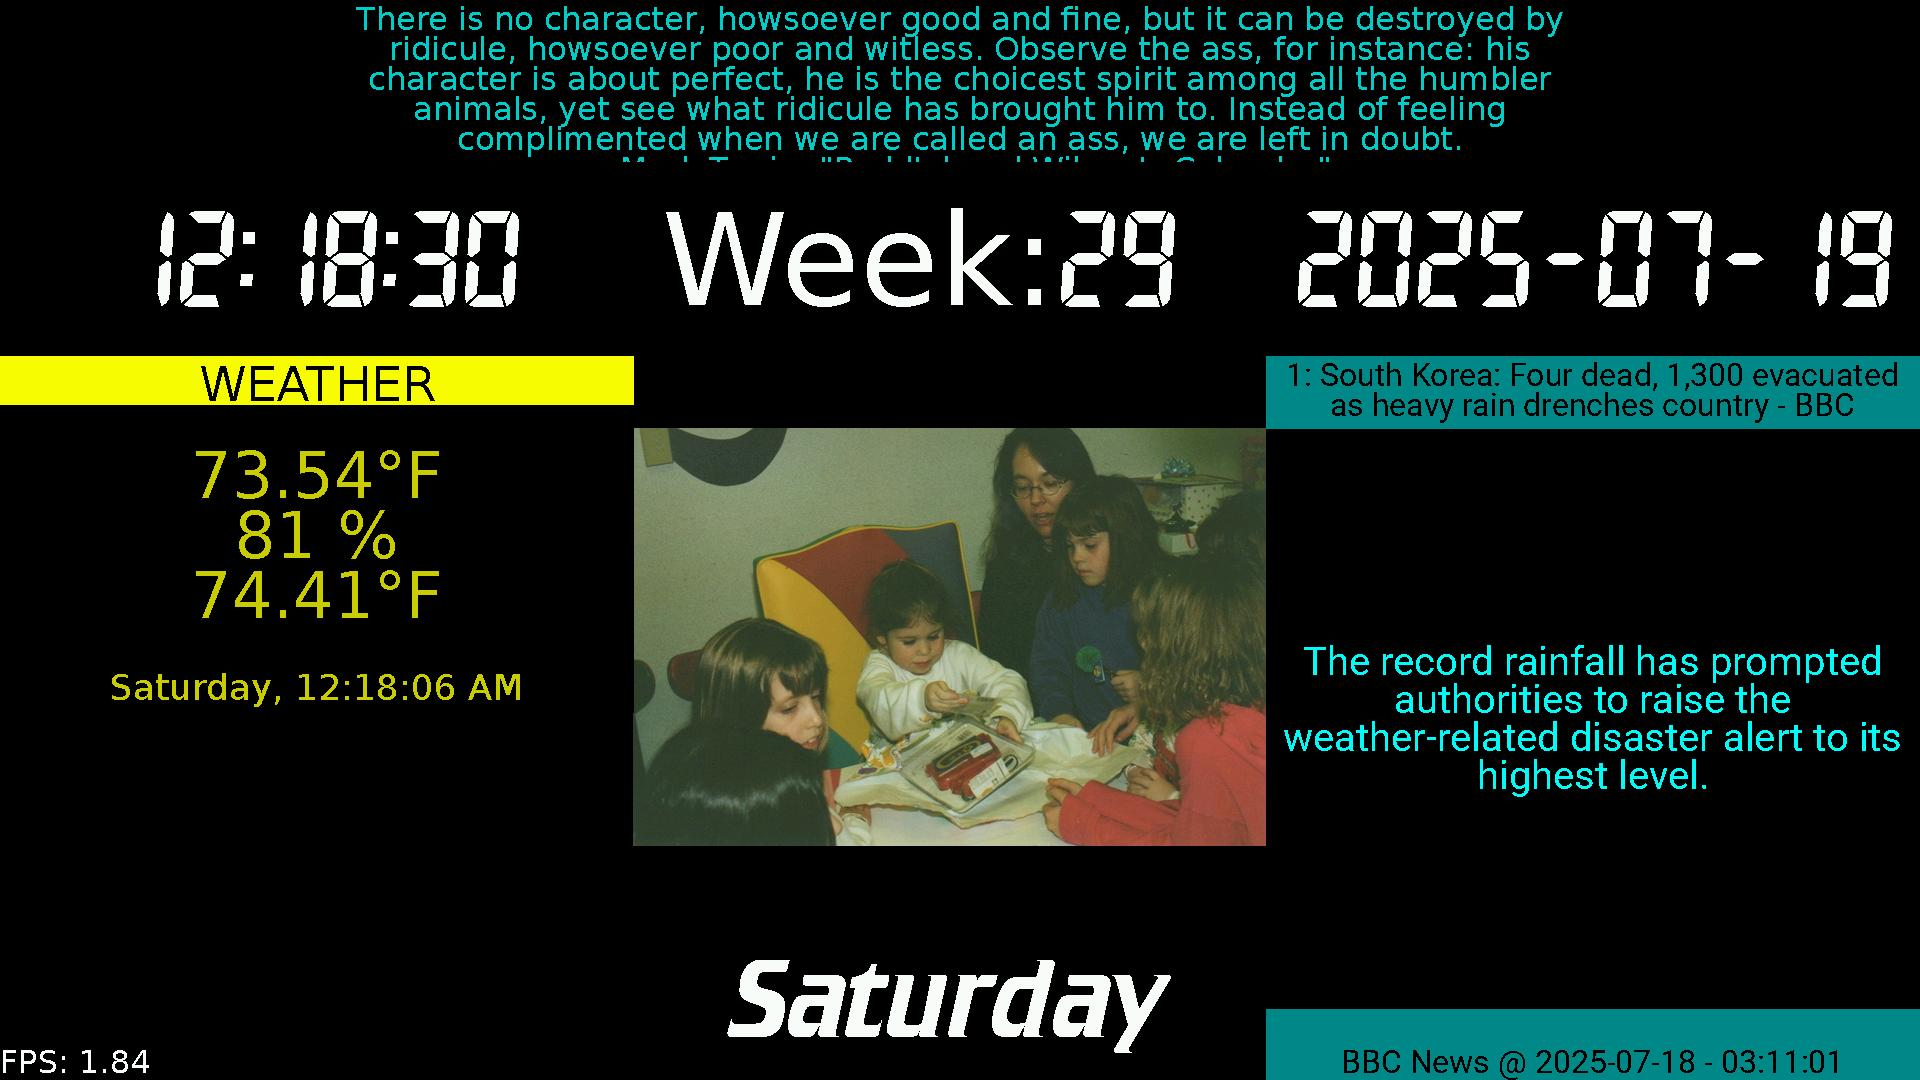
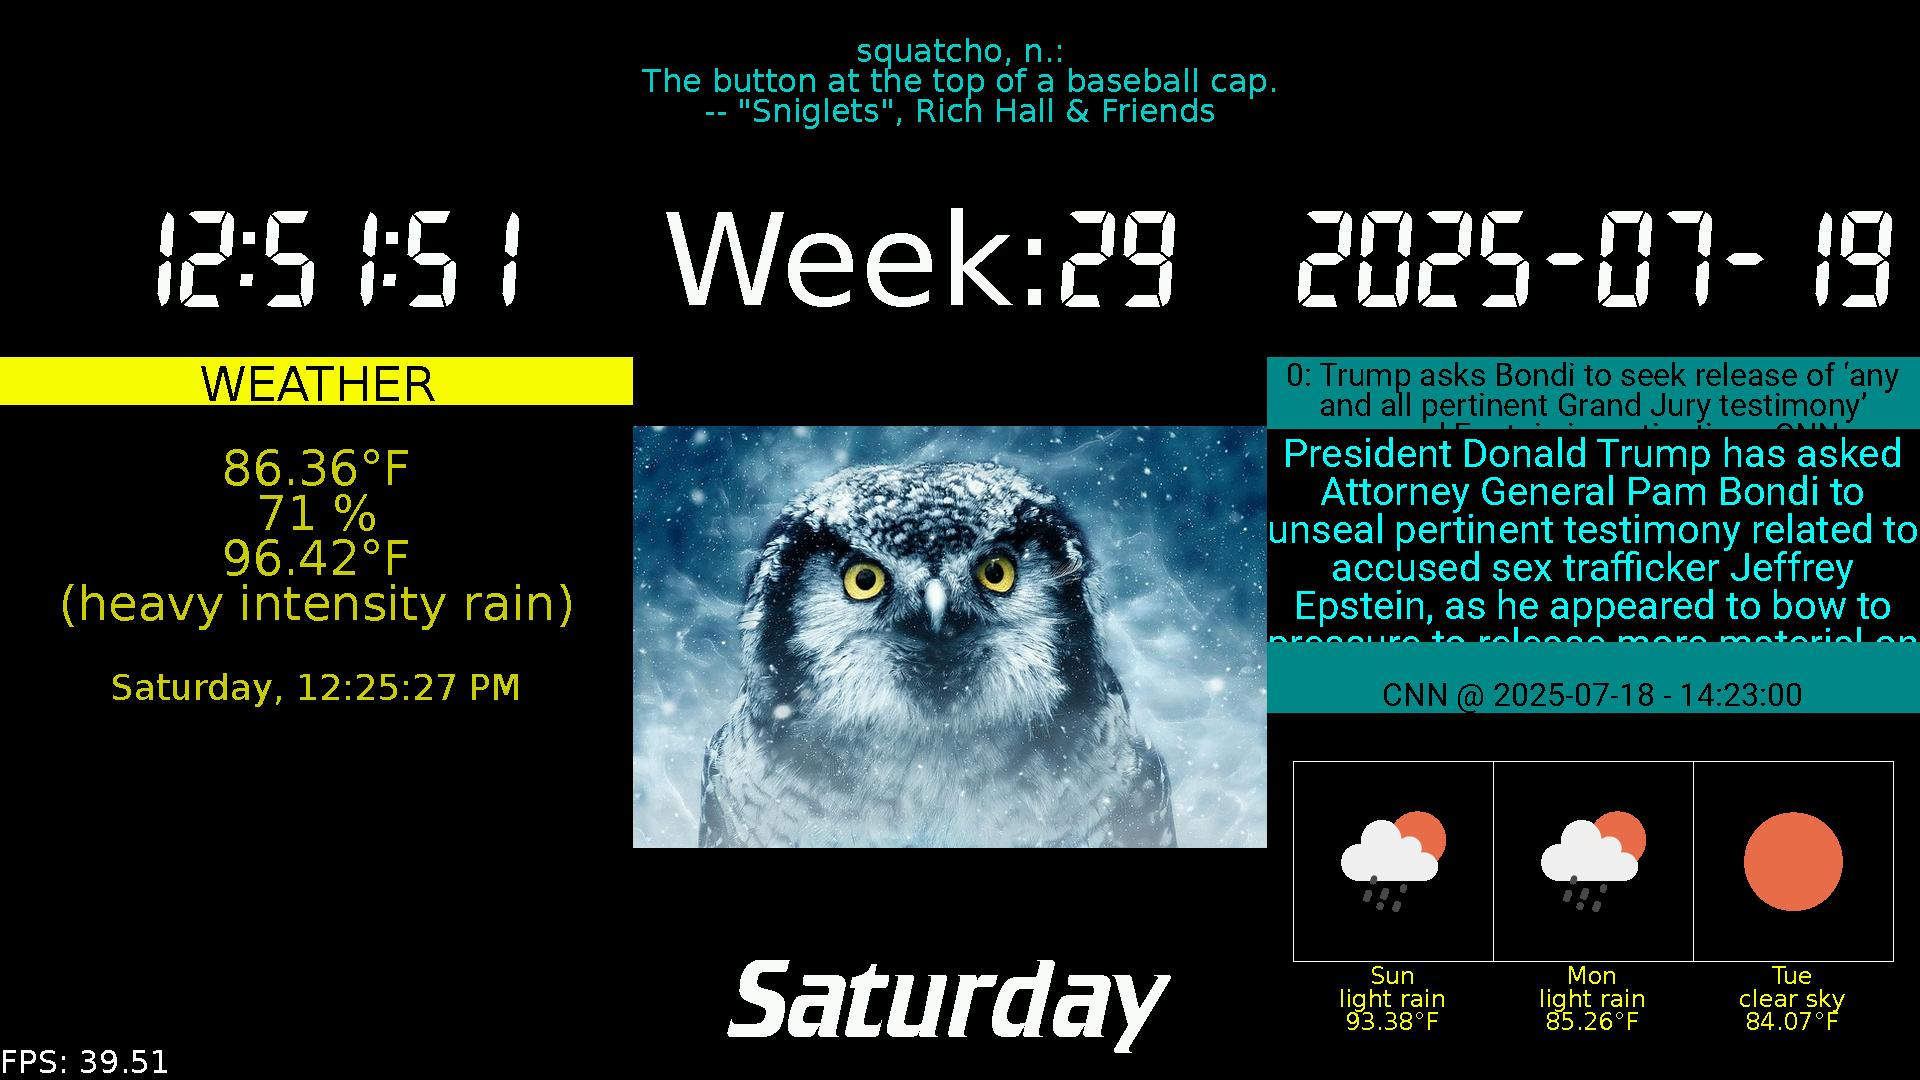
adding forecast

diff --git a/src/pmserver/templates/display.html b/src/pmserver/templates/display.html
@@ -27,7 +27,9 @@
                     <img src="/static/output.jpg" alt="Mirror Display" class="mirror-display" id="displayImage">
                     <div class="mt-3">
                         <button class="btn btn-secondary" onclick="refreshDisplay()">Refresh Display</button>
-                        <a href="/" class="btn btn-outline-primary">Back to Home</a>
+                        <a href="/control" class="btn btn-success ms-2">Control Panel</a>
+                        <a href="/alert" class="btn btn-warning ms-2">Send Alert</a>
+                        <a href="/" class="btn btn-outline-primary ms-2">Back to Home</a>
                     </div>
                 </div>
             </div>

diff --git a/src/pmserver/templates/alert.html b/src/pmserver/templates/alert.html
@@ -52,8 +52,14 @@ document.getElementById('commandForm').onsubmit = function(e) {
     })
     .then(response => response.json())
     .then(data => {
+        // Show success message briefly, then redirect
         document.getElementById('result').innerHTML =
-            '<pre>' + JSON.stringify(data, null, 2) + '</pre>';
+            '<div class="alert alert-success">Alert sent successfully! Redirecting to display...</div>';
+        
+        // Redirect to display page after 1 second
+        setTimeout(() => {
+            window.location.href = '/display';
+        }, 1000);
     })
     .catch(error => {
         document.getElementById('result').innerHTML =

diff --git a/src/pmserver/templates/control.html b/src/pmserver/templates/control.html
@@ -43,8 +43,8 @@ document.getElementById('controlForm').onsubmit = function(e) {
     })
     .then(response => response.json())
     .then(data => {
-        document.getElementById('result').innerHTML =
-            '<pre>' + JSON.stringify(data, null, 2) + '</pre>';
+        // Redirect immediately after success
+        window.location.href = '/display';
     })
     .catch(error => {
         document.getElementById('result').innerHTML =

diff --git a/src/modules/forecast.py b/src/modules/forecast.py
@@ -1,0 +1,88 @@
+# weather.py
+# https://openweathermap.org/api/one-call-3#current
+
+import requests
+import json
+from datetime import datetime
+from dataclasses import dataclass
+from pymirror.pmbitmap import PMBitmap
+from pymirror.pmcard import PMCard
+from pymirror.pmimage import PMImage
+
+@dataclass
+class ForecastConfig:
+    days: int = 3  # Number of days to forecast
+    days_offset: int = 0  # Offset for the forecast days
+    icon_size: str = "small"  # Size of the forecast icons (None, small, medium, large)
+
+class Forecast(PMCard):
+    def __init__(self, pm, config):
+        super().__init__(pm, config)
+        self._forecast = ForecastConfig(**config.forecast.__dict__)
+        self.subscribe("WeatherForecastEvent")
+        self.dirty = False
+
+    def _load_icon(self, icon_code: str, size: str) -> PMBitmap:
+        # Load the weather icon bitmap based on the icon code and size
+        scale = {"small": "", "medium": "@2x", "large": "@4x"}.get(size, "")
+        icon_path = f"./weather_icons/{icon_code}{scale}.png"
+        print(f"Loading weather icon from {icon_path}")
+        return PMImage().load(icon_path)
+
+    def _render(self, rect: tuple = None) -> tuple:
+        ## if rect is None, don't render anything
+        ## just try to render and return the bounding box
+        if rect:
+            dx, dy = rect
+        else:
+            dx, dy = 0, 0
+        x0, y0, x1, y1 = 0, 0, 0, 0
+        lines = 3
+        cfg = self._forecast
+        for i in range(cfg.days_offset, cfg.days_offset + cfg.days):
+            icon_code = self.weather_response["daily"][i]["weather"][0]["icon"]
+            icon = self._load_icon(icon_code, cfg.icon_size)
+            date = datetime.fromtimestamp(self.weather_response["daily"][i]["dt"])
+            if rect: self.bitmap.img.paste(icon, (x0 + dx, y0 + dy))
+            self.gfx.color = "#fff"
+            if rect: self.bitmap.rect(self.gfx, (x0 + dx, y0 + dy, x0 + icon.width + dx, y0 + icon.height + dy), fill=None)
+            day = date.strftime("%a")
+            desc =  self.weather_response.daily[i].weather[0].description
+            temp = self.weather_response["daily"][i]["temp"]["day"]
+            msg = f"{day}\n{desc}\n{temp}°F"
+            if rect: self.bitmap.text_box(
+                self.gfx,
+                msg,
+                (x0 + dx, y0 + icon.height + dy, x0 + icon.width + dx, y0 + icon.height + self.gfx.font_height * lines + dy),
+                valign="center",
+                halign="center",
+                wrap="words",
+            )
+            x0 += icon.width
+            x1 = max(x1, x0)
+            y1 = max(y1, y0 + icon.height + self.gfx.font_height * lines)
+            if x0 + icon.width >= self.gfx.width:
+                x0 = 0
+                y0 += icon.height + self.gfx.font_height * lines
+        return (0, 0, x1, y1)
+
+    def render(self, force: bool = False) -> bool:
+        if not (self.dirty or force):
+            return False
+        self.bitmap.clear()
+        bbox = self._render(None) ## render and return the bounding box
+        w = bbox[2] - bbox[0]
+        h = bbox[3] - bbox[1]
+        dx = (self.gfx.width - w) // 2
+        dy = (self.gfx.height - h) // 2
+        print(f"Forecast bounding box: {bbox}, x0,y0={dx},{dy}, size: {w}x{h}")
+        self._render((dx, dy))
+        self.dirty = False
+        return True
+
+    def onWeatherForecastEvent(self, event):
+        self.dirty = True
+        self.weather_response = event.data
+
+    def exec(self) -> bool:
+        return self.dirty # state changed

diff --git a/src/modules/weather.py b/src/modules/weather.py
@@ -6,9 +6,11 @@ import json
 from datetime import datetime
 from types import SimpleNamespace
 from dataclasses import dataclass
+from pymirror.pmbitmap import PMBitmap
 from pymirror.pmcard import PMCard
 from events import AlertEvent
 from pymirror.pmwebapi import PMWebApi
+from pymirror.utils import SafeNamespace
 
 @dataclass
 class OpenWeatherMapConfig:
@@ -58,24 +60,36 @@ class Weather(PMCard):
             units=self._weather.units,
             lang=self._weather.lang
         )
+
     def exec(self) -> bool:
         is_dirty = super().exec()
         if not self.timer.is_timedout():
             return is_dirty # early exit if not timed out
         self.timer.set_timeout(self._weather.refresh_minutes * 60 * 1000)
-        self.weather_response = self.api.get_json(self.owm_config.__dict__)
+        self.weather_response = SafeNamespace(**self.api.get_json(self.owm_config.__dict__))
         # print(f"Weather response: {self.weather_response}")  # Debugging line
-        w = SimpleNamespace(**self.weather_response.get("current"))
+        w = self.weather_response.current
+        d = self.weather_response.daily
+        cfg = self._weather
         # convert w.current.dt to a datetime object
-        dt_str = datetime.fromtimestamp(w.dt).strftime(self._weather.datetime_format)
+        dt_str = datetime.fromtimestamp(w.dt).strftime(cfg.datetime_format)
         self.update(
             "WEATHER",
-            f"{w.temp}{self._weather.degrees}\n{w.humidity} %\n{w.feels_like}{self._weather.degrees}",
+            f"{w.temp}{cfg.degrees}\n{w.humidity} %\n{w.feels_like}{cfg.degrees}\n({d[0].weather[0].description})",
             dt_str,
         )
 
-        if self.weather_response.get("alerts"):
-            alerts = self.weather_response["alerts"]
+        if d:
+            # Publish the weather data as an event
+            event = {
+                "event": "WeatherForecastEvent",
+                "data": self.weather_response,
+            }
+            print(f"Publishing weather forecast event: {event['event']}")
+            self.publish_event(event)
+
+        if w.alerts:
+            alerts = w.alerts
             if alerts:
                 alert = alerts[0]
                 event = {

diff --git a/src/pymirror/pmmodule.py b/src/pymirror/pmmodule.py
@@ -35,7 +35,7 @@ class PMModule(ABC):
 		self.timer = PMTimer(0)
 		self.subscriptions = []
 		self.gfx = PMGfx() ## default graphics context
-		self.gfx.rect = self._compute_rect()
+		self.gfx.rect = self._compute_rect(self.position)
 		self.gfx.color = _moddef.color or self.screen.gfx.color or self.gfx.color
 		self.gfx.bg_color = _moddef.bg_color or self.screen.gfx.bg_color or self.gfx.bg_color
 		self.gfx.text_color = _moddef.text_color or self.screen.gfx.text_color or self.gfx.text_color
@@ -46,14 +46,13 @@ class PMModule(ABC):
 		self.bitmap = self._allocate_bitmap()
 		self.subscribe(_moddef.subscriptions or [])
 
-	def _compute_rect(self) -> tuple:
+	def _compute_rect(self, position: str = None) -> tuple:
 		# compute rect based on "position"
-		moddef = self._moddef
 		rect = (0,0,0,0)
-		if not moddef.position or moddef.position == "None": return None
-		dim_str = self.pm._config.positions[moddef.position]
+		if not position or position == "None": return None
+		dim_str = self.pm._config.positions[position]
 		if dim_str:
-			print(f"Module {self._moddef.name} position: {moddef.position}, dimensions: {dim_str}")
+			print(f"Module {self._moddef.name} position: {position}, dimensions: {dim_str}")
 			dims = [float(x) for x in dim_str.split(",")]
 			## this is the bounding box for the module on-screen
 			## x0, y0 is the top-left corner, x1, y1 is the bottom-right corner
@@ -73,6 +72,7 @@ class PMModule(ABC):
 			return None
 		width = self.gfx.x1 - self.gfx.x0 + 1
 		height = self.gfx.y1 - self.gfx.y0 + 1
+		print(f"Allocating bitmap for module {self._moddef.name} at {self.gfx.rect} with size {width}x{height}")
 		return PMBitmap(width, height, self.gfx.bg_color)
 
 	@abstractmethod
@@ -112,7 +112,7 @@ class PMModule(ABC):
 		if method:
 			method(event)
 		else:
-			print(f"No handler for event {event.name} in module {self._moddef.position}")
+			print(f"No handler for event {event.event} in module {self._moddef.name}")
 
 	def publish_event(self, event) -> None:
 		""" Publish an event to the PM.

diff --git a/src/pymirror/utils.py b/src/pymirror/utils.py
@@ -145,3 +145,16 @@ def tocolor(t) -> int:
     b = (b >> 3) & 0x1F  # Convert to 5 bits
     x = r << 19 | (g1 << 16 | g0 << 5 | b)
     return x
+
+def getter(obj, path, default=None):
+    keys = path.split(".")
+    current = obj
+    for key in keys:
+        print(f"Accessing key: {key} in {current}")
+        if isinstance(current, dict):
+            current = current.get(key, default)
+        elif isinstance(current, list):
+            current = current[int(key)]
+        else:
+            return default
+    return current
